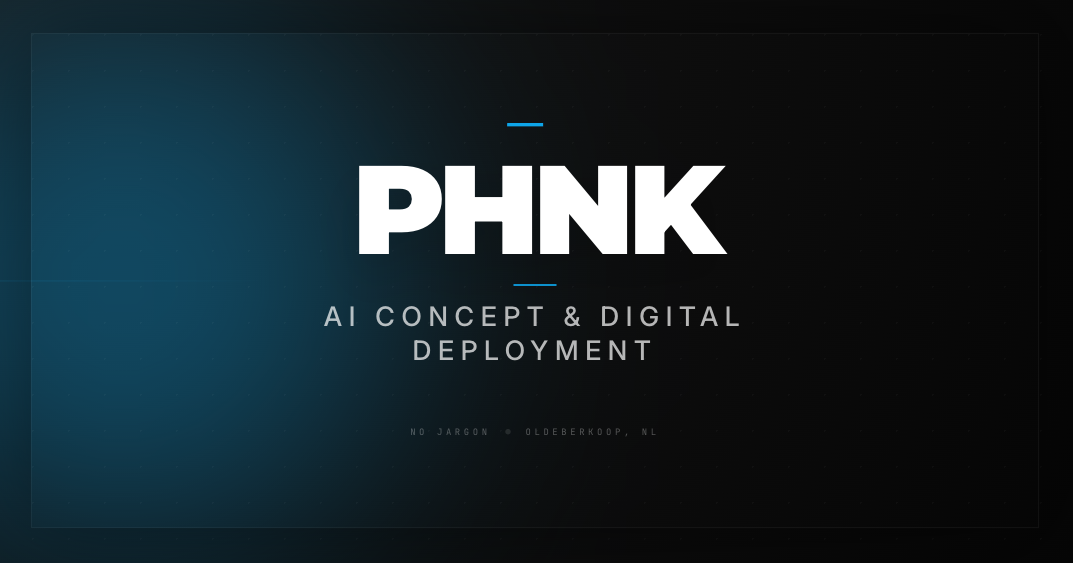
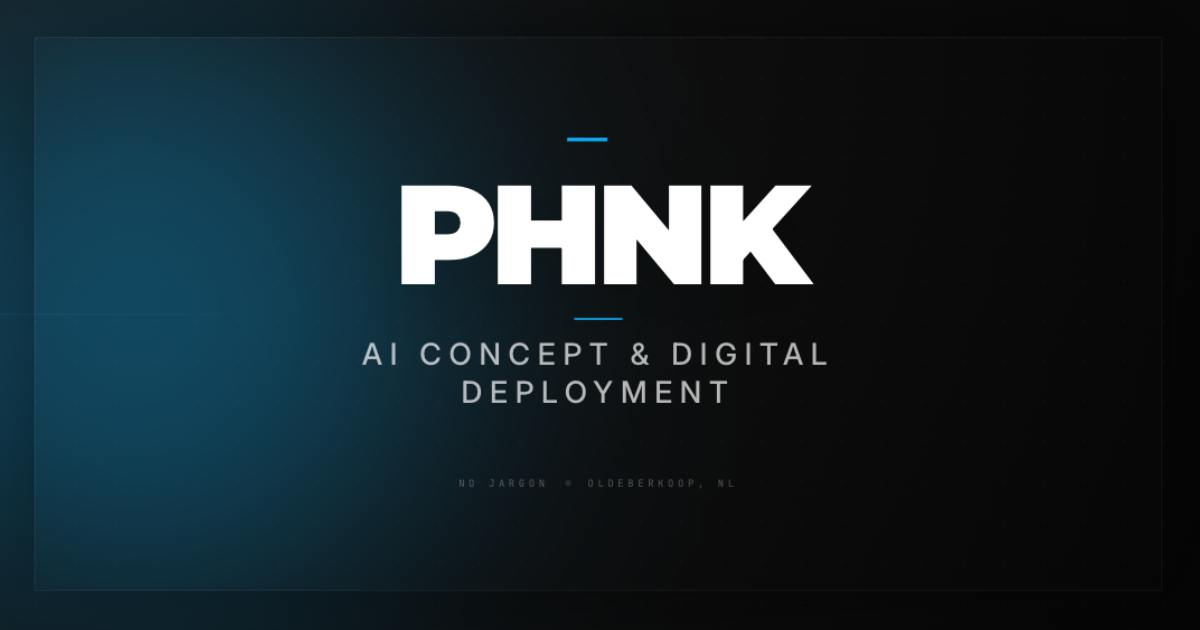
Update social image to 1200x630 and sync OG dimensions

diff --git a/index.html b/index.html
@@ -20,8 +20,8 @@
 <meta property="og:image"       content="https://www.phnkmedia.com/assets/images/phnkmedia.png">
 <meta property="og:image:secure_url" content="https://www.phnkmedia.com/assets/images/phnkmedia.png">
 <meta property="og:image:type"  content="image/png">
-<meta property="og:image:width" content="1073">
-<meta property="og:image:height" content="563">
+<meta property="og:image:width" content="1200">
+<meta property="og:image:height" content="630">
 <meta property="og:image:alt"   content="PHNK Media social preview image">
 <meta property="og:locale"      content="nl_NL">
 <meta property="og:site_name"   content="PHNK Media">
